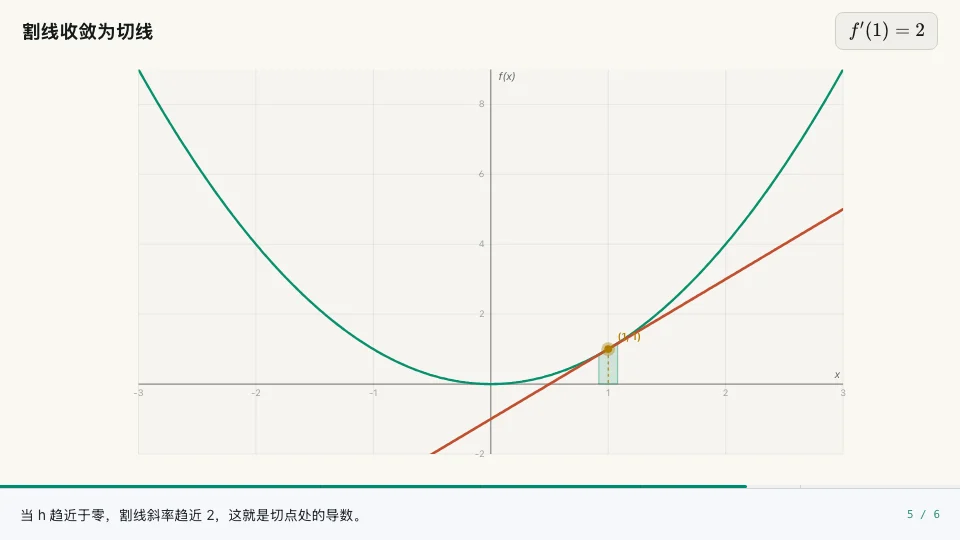
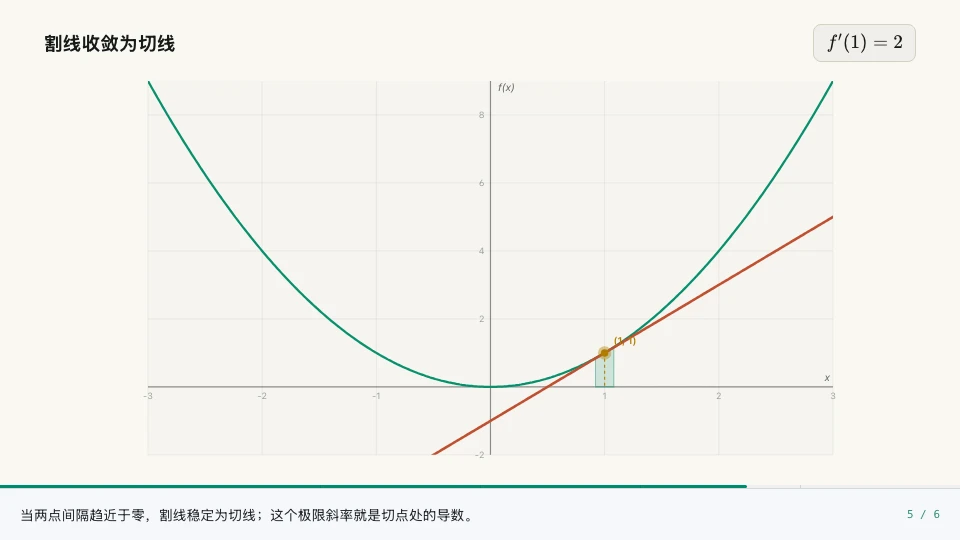
feat(math): smooth compatible derivative plot transitions

diff --git a/apps/web/src/features/playbook/engine/renderers/MathPlotRenderer.tsx b/apps/web/src/features/playbook/engine/renderers/MathPlotRenderer.tsx
@@ -102,6 +102,9 @@ const PALETTE: Record<"dark" | "light", MathPalette> = {
 
 const PLOT_H = SVG_H - MARGIN.top - MARGIN.bottom;
 const SAMPLES = MATH_PLOT.CURVE_SAMPLES;
+// Keeps title and formula chrome inside the viewport at the supported 1.08 camera scale.
+const CAMERA_SAFE_HEADER_INSET_PX = 44;
+const CAMERA_SAFE_HEADER_TOP_PX = 24;
 
 // ── Helpers ────────────────────────────────────────────────────────────────
 
@@ -131,6 +134,176 @@ function curveColor(
   return colors.curvePrimary[primaryIndex % colors.curvePrimary.length];
 }
 
+function compileCurves(snap: MathPlotSnapshot): CompiledCurve[] {
+  let primaryCount = 0;
+  return (snap.curves ?? []).map((curve) => {
+    let fn: CompiledExpr | null = null;
+    try {
+      fn = compileExpr(curve.expression);
+    } catch {
+      fn = null;
+    }
+    const isPrimary = curve.emphasis !== "secondary" && curve.emphasis !== "accent";
+    const primaryIndex = isPrimary ? primaryCount++ : 0;
+    return {
+      expression: curve.expression,
+      label: curve.label,
+      emphasis: curve.emphasis,
+      semanticRole: curve.semantic_role,
+      fn,
+      points: fn ? sampleExpr(fn, snap.x_min, snap.x_max, SAMPLES, snap.params) : [],
+      primaryIndex,
+    };
+  });
+}
+
+function sameOptionalRange(
+  previous: number | null | undefined,
+  current: number | null | undefined,
+): boolean {
+  return previous == null && current == null
+    ? true
+    : Number.isFinite(previous) && Number.isFinite(current) && previous === current;
+}
+
+function uniqueMatchIndex(
+  curves: CompiledCurve[],
+  predicate: (curve: CompiledCurve) => boolean,
+  used: Set<number>,
+): number | null {
+  const matches = curves
+    .map((curve, index) => ({ curve, index }))
+    .filter(({ curve, index }) => !used.has(index) && predicate(curve));
+  return matches.length === 1 ? matches[0].index : null;
+}
+
+function matchedPreviousCurveIndex(
+  current: CompiledCurve,
+  currentIndex: number,
+  currentCurves: CompiledCurve[],
+  previousCurves: CompiledCurve[],
+  used: Set<number>,
+): number | null {
+  const semanticRole = current.semanticRole?.trim();
+  if (semanticRole) {
+    const currentRoleCount = currentCurves.filter(
+      (curve) => curve.semanticRole?.trim() === semanticRole,
+    ).length;
+    if (currentRoleCount !== 1) return null;
+    return uniqueMatchIndex(
+      previousCurves,
+      (curve) => curve.semanticRole?.trim() === semanticRole,
+      used,
+    );
+  }
+
+  const expressionMatch = uniqueMatchIndex(
+    previousCurves,
+    (curve) => curve.expression === current.expression,
+    used,
+  );
+  if (expressionMatch != null) return expressionMatch;
+
+  const previousAtIndex = previousCurves[currentIndex];
+  if (
+    currentCurves.length === 1 &&
+    previousCurves.length === 1 &&
+    !previousAtIndex?.semanticRole?.trim()
+  ) {
+    return currentIndex;
+  }
+  return null;
+}
+
+interface MathPlotTransition {
+  curves: CompiledCurve[];
+  markerX: number | null | undefined;
+  shadeFrom: number | null | undefined;
+  shadeTo: number | null | undefined;
+}
+
+function interpolateFinite(
+  previous: number | null | undefined,
+  current: number | null | undefined,
+  progress: number,
+): number | null | undefined {
+  if (!Number.isFinite(previous) || !Number.isFinite(current)) return current;
+  return (previous as number) + ((current as number) - (previous as number)) * progress;
+}
+
+function compatibleMathPlotTransition(
+  previous: MathPlotSnapshot,
+  current: MathPlotSnapshot,
+  currentCurves: CompiledCurve[],
+  progress: number,
+): MathPlotTransition | null {
+  if (
+    previous.x_min !== current.x_min ||
+    previous.x_max !== current.x_max ||
+    !sameOptionalRange(previous.y_min, current.y_min) ||
+    !sameOptionalRange(previous.y_max, current.y_max) ||
+    (previous.curves ?? []).length !== (current.curves ?? []).length ||
+    currentCurves.length === 0
+  ) {
+    return null;
+  }
+
+  const previousCurves = compileCurves(previous);
+  if (
+    previousCurves.length !== currentCurves.length ||
+    previousCurves.some((curve) => !curve.fn || curve.points.length === 0) ||
+    currentCurves.some((curve) => !curve.fn || curve.points.length === 0)
+  ) {
+    return null;
+  }
+
+  const previousLead = previousCurves.find((curve) => curve.fn);
+  const currentLead = currentCurves.find((curve) => curve.fn);
+  if (!previousLead || !currentLead || previousLead.expression !== currentLead.expression) {
+    return null;
+  }
+
+  const used = new Set<number>();
+  const interpolated: CompiledCurve[] = [];
+  for (let index = 0; index < currentCurves.length; index += 1) {
+    const currentCurve = currentCurves[index];
+    const previousIndex = matchedPreviousCurveIndex(
+      currentCurve,
+      index,
+      currentCurves,
+      previousCurves,
+      used,
+    );
+    if (previousIndex == null) return null;
+    const previousCurve = previousCurves[previousIndex];
+    if (previousCurve.points.length !== currentCurve.points.length) return null;
+    const points: SamplePoint[] = [];
+    for (let pointIndex = 0; pointIndex < currentCurve.points.length; pointIndex += 1) {
+      const from = previousCurve.points[pointIndex];
+      const to = currentCurve.points[pointIndex];
+      if (
+        !Number.isFinite(from.x) ||
+        !Number.isFinite(from.y) ||
+        !Number.isFinite(to.x) ||
+        !Number.isFinite(to.y) ||
+        from.x !== to.x
+      ) {
+        return null;
+      }
+      points.push({ x: to.x, y: from.y + (to.y - from.y) * progress });
+    }
+    used.add(previousIndex);
+    interpolated.push({ ...currentCurve, points });
+  }
+
+  return {
+    curves: interpolated,
+    markerX: interpolateFinite(previous.marker_x, current.marker_x, progress),
+    shadeFrom: interpolateFinite(previous.shade_from, current.shade_from, progress),
+    shadeTo: interpolateFinite(previous.shade_to, current.shade_to, progress),
+  };
+}
+
 interface CompiledCurve {
   expression: string;
   label: string | null | undefined;
@@ -145,9 +318,11 @@ interface CompiledCurve {
 
 export const MathPlotRenderer: React.FC<RendererProps> = ({
   step,
+  prevStep,
   frame,
   stepStartFrame,
   progress,
+  stepProgress,
   theme,
   onInteraction,
 }) => {
@@ -188,28 +363,17 @@ export const MathPlotRenderer: React.FC<RendererProps> = ({
   const xMin = snap.x_min;
   const xMax = snap.x_max;
 
-  const compiled = React.useMemo<CompiledCurve[]>(() => {
-    let primaryCount = 0;
-    return (snap.curves ?? []).map((c) => {
-      let fn: CompiledExpr | null = null;
-      try {
-        fn = compileExpr(c.expression);
-      } catch {
-        fn = null;
-      }
-      const isPrimary = c.emphasis !== "secondary" && c.emphasis !== "accent";
-      const primaryIndex = isPrimary ? primaryCount++ : 0;
-      return {
-        expression: c.expression,
-        label: c.label,
-        emphasis: c.emphasis,
-        semanticRole: c.semantic_role,
-        fn,
-        points: fn ? sampleExpr(fn, xMin, xMax, SAMPLES, snap.params) : [],
-        primaryIndex,
-      };
-    });
-  }, [snap.curves, snap.params, xMin, xMax]);
+  const currentCompiled = React.useMemo<CompiledCurve[]>(() => compileCurves(snap), [snap]);
+  const transition = React.useMemo(() => {
+    if (!prevStep || prevStep.snapshot.kind !== "math_plot") return null;
+    return compatibleMathPlotTransition(
+      prevStep.snapshot as MathPlotSnapshot,
+      snap,
+      currentCompiled,
+      clamp01(stepProgress ?? progress),
+    );
+  }, [currentCompiled, prevStep, progress, snap, stepProgress]);
+  const compiled = transition?.curves ?? currentCompiled;
 
   const drawable = compiled.filter((c) => c.points.length > 0);
 
@@ -256,8 +420,9 @@ export const MathPlotRenderer: React.FC<RendererProps> = ({
     snap.shade_to > snap.shade_from
   ) {
     const shadeReveal = clamp01((reveal - 0.15) / 0.85);
-    const shadeFrom = snap.shade_from;
-    const right = shadeFrom + (snap.shade_to - shadeFrom) * shadeReveal;
+    const shadeFrom = transition?.shadeFrom ?? snap.shade_from;
+    const shadeTo = transition?.shadeTo ?? snap.shade_to;
+    const right = shadeFrom + (shadeTo - shadeFrom) * shadeReveal;
     if (right > shadeFrom + 1e-9) {
       // Issue #44: reuse the lead curve's own samples (sampled at SAMPLES
       // density across [xMin, xMax]) so the shade's top edge exactly tracks
@@ -289,12 +454,13 @@ export const MathPlotRenderer: React.FC<RendererProps> = ({
 
   // Point marker on the lead curve.
   let marker: { px: number; py: number; mx: number; my: number; opacity: number } | null = null;
-  if (lead?.fn && snap.marker_x != null) {
-    const my = lead.fn({ ...(snap.params ?? {}), x: snap.marker_x });
+  const markerX = transition?.markerX ?? snap.marker_x;
+  if (lead?.fn && markerX != null) {
+    const my = lead.fn({ ...(snap.params ?? {}), x: markerX });
     if (Number.isFinite(my)) {
-      const xFrac = (snap.marker_x - xMin) / (xMax - xMin);
+      const xFrac = (markerX - xMin) / (xMax - xMin);
       const opacity = clamp01((reveal - Math.min(0.85, xFrac)) * 6);
-      marker = { px: sx(snap.marker_x), py: sy(my), mx: snap.marker_x, my, opacity };
+      marker = { px: sx(markerX), py: sy(my), mx: markerX, my, opacity };
     }
   }
 
@@ -310,6 +476,7 @@ export const MathPlotRenderer: React.FC<RendererProps> = ({
     <div
       className="math-plot-renderer"
       data-theme={theme}
+      data-math-plot-transition={transition ? "interpolated" : "static"}
       data-pack-id={snap.pack_id ?? undefined}
       data-plot-asset-id={snap.asset_id ?? undefined}
       style={{
@@ -328,7 +495,7 @@ export const MathPlotRenderer: React.FC<RendererProps> = ({
           alignItems: "center",
           justifyContent: "space-between",
           gap: 16,
-          padding: "12px 22px 4px",
+          padding: `${CAMERA_SAFE_HEADER_TOP_PX}px ${CAMERA_SAFE_HEADER_INSET_PX}px 4px`,
         }}
       >
         <h2

diff --git a/apps/web/src/pages/Templates/templatePreviewCases.ts b/apps/web/src/pages/Templates/templatePreviewCases.ts
@@ -543,14 +543,14 @@ function lineExpression(slope: number, intercept: number): string {
 
 function derivativeSnapshot(
   markerX: number,
-  h: number | null,
+  h: number | null | undefined,
   caption: string,
   formulaLatex: string,
 ): MathPlotSnapshot {
   const curves: MathPlotSnapshot["curves"] = [
     { expression: "x^2", label: "f(x)=x²", emphasis: "primary", semantic_role: "curve" },
   ];
-  if (h != null) {
+  if (h !== undefined && h !== null) {
     const slope = 2 * markerX + h;
     const intercept = -markerX * (markerX + h);
     curves.push({
@@ -559,7 +559,7 @@ function derivativeSnapshot(
       emphasis: "secondary",
       semantic_role: "slope",
     });
-  } else {
+  } else if (h === null) {
     const slope = 2 * markerX;
     const intercept = -(markerX ** 2);
     curves.push({
@@ -580,8 +580,8 @@ function derivativeSnapshot(
     y_min: -2,
     y_max: 9,
     marker_x: markerX,
-    shade_from: h == null ? markerX - 0.08 : markerX,
-    shade_to: h == null ? markerX + 0.08 : markerX + h,
+    shade_from: h === undefined ? null : h === null ? markerX - 0.08 : markerX,
+    shade_to: h === undefined ? null : h === null ? markerX + 0.08 : markerX + h,
     x_label: "x",
     y_label: "f(x)",
     formula_latex: formulaLatex,
@@ -597,8 +597,8 @@ function buildDerivativeScript(params: TemplatePreviewParams): PlaybookScript {
     step(0, {
       step_id: "derivative-curve",
       title: "观察函数曲线",
-      voiceover_text: `先观察 f(x)=x²，并把切点放在 a=${fixed(markerX)}。`,
-      snapshot: derivativeSnapshot(markerX, 1.5, "导数来自切点附近的变化率。", "f(x)=x^2"),
+      voiceover_text: "先锁定主函数与切点；接下来只改变附近点的位置，主曲线始终保持不动。",
+      snapshot: derivativeSnapshot(markerX, undefined, "导数来自切点附近的变化率。", "f(x)=x^2"),
     }),
   ];
   secants.forEach((h, index) => {
@@ -606,7 +606,7 @@ function buildDerivativeScript(params: TemplatePreviewParams): PlaybookScript {
     steps.push(step(steps.length, {
       step_id: `derivative-secant-${index + 1}`,
       title: `缩小间隔 h=${h}`,
-      voiceover_text: `当 h=${h} 时，割线斜率是 ${fixed(secantSlope)}。h 越小，割线越接近切线。`,
+      voiceover_text: `观察割线绕切点逐渐转动；间隔缩小到 h=${h} 时，它的方向更接近稳定极限。`,
       snapshot: derivativeSnapshot(
         markerX,
         h,
@@ -618,7 +618,7 @@ function buildDerivativeScript(params: TemplatePreviewParams): PlaybookScript {
   steps.push(step(steps.length, {
     step_id: "derivative-tangent",
     title: "割线收敛为切线",
-    voiceover_text: `当 h 趋近于零，割线斜率趋近 ${fixed(slope)}，这就是切点处的导数。`,
+    voiceover_text: "当两点间隔趋近于零，割线稳定为切线；这个极限斜率就是切点处的导数。",
     snapshot: derivativeSnapshot(
       markerX,
       null,
@@ -654,6 +654,22 @@ function buildDerivativeScript(params: TemplatePreviewParams): PlaybookScript {
     }],
     algorithm_id: "derivative_tangent",
     initial_data: { function: ["x^2"], marker_x: [fixed(markerX)] },
+  };
+}
+
+function derivativeDirectorFor(script: PlaybookScript): DirectorScript {
+  const director = directorFor("derivative-tangent", script);
+  return {
+    ...director,
+    beats: director.beats.map((beat) => {
+      if (beat.step_id === "derivative-secant-2") {
+        return { ...beat, camera_motion: "push_in" as const };
+      }
+      if (beat.step_id === "derivative-secant-3") {
+        return { ...beat, camera_motion: "pull_out" as const };
+      }
+      return beat;
+    }),
   };
 }
 
@@ -892,7 +908,7 @@ const TEMPLATE_PREVIEW_CASES: Record<TemplatePreviewCaseId, TemplatePreviewCase>
       resetPlayback: false,
     }],
     buildScript: buildDerivativeScript,
-    buildDirector: (script) => directorFor("derivative-tangent", script),
+    buildDirector: derivativeDirectorFor,
     buildFollowups: buildDerivativeFollowups,
   },
   projectile: {
